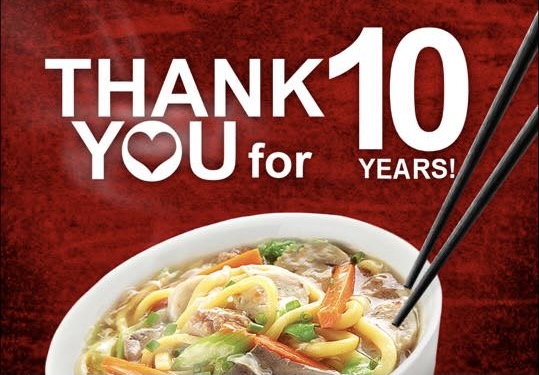
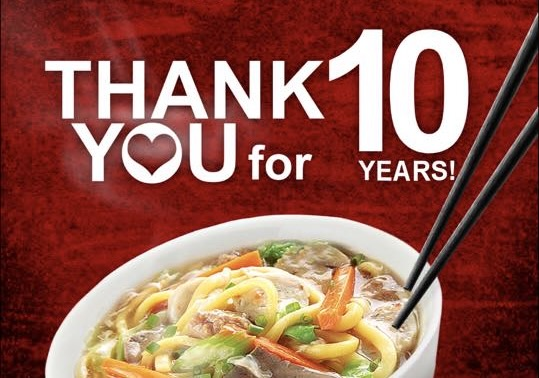
beforeFoodhtml

diff --git a/aboutus.html b/aboutus.html
@@ -69,45 +69,30 @@
                 <!-- <h3>What we stand for</h3> -->
                 <p>Lucky Fortune Panda stands for quality and convenience. Our mission is to cater to the dynamic demands of the new breed of diners who want freshly prepared, fast, and delicious food without having to go all the way to Manila's Chinatown in Binondo.</p>
                 <p>Satisfy your cravings for our bestselling siomai, awarded as the Best Siomai in Binondo as well as our other signature dishes.</p>
-                <p>Our menu offers a wide selection for individuals, families, or large groups, ranging from rice toppings, combo meals, packed lunches, or party packs to answer all the food needs of our valued guests. So, whether it be your daily meals, special celebrations, or parties, let us take care of you.</p>
+                <!-- <p>Our menu offers a wide selection for individuals, families, or large groups, ranging from rice toppings, combo meals, packed lunches, or party packs to answer all the food needs of our valued guests. So, whether it be your daily meals, special celebrations, or parties, let us take care of you.</p> -->
             </div>
             <div class="col-4 col-sm-3 col-md-2 align-self-center offset-2">
                 <img src="img/certifiedpig.jpg" class="img-fluid" />
             </div>
         </div>
 
-        <div class="col-sm-6">
-            <div class="card">
-                <h3 class="card-header bg-primary text-white">Facts At a Glance</h3>
-                <div class="card-body">
-                    <dl class="row">
-                        <dt class="col-6">Founded</dt>
-                        <dd class="col-6">February 3, 2016</dd>
-                        <dt class="col-6">No. of Campsites in 2019</dt>
-                        <dd class="col-6">563</dd>
-                        <dt class="col-6">No. of Reviews in 2019</dt>
-                        <dd class="col-6">4388</dd>
-                        <dt class="col-6">Employees</dt>
-                        <dd class="col-6">42</dd>
-                    </dl>
-                </div>
-            </div>
-        </div>
-
-        <div class="row row-content">
-            <div class="col">
-                <h3>Locations</h3>                
+        <div class="row row-content" id="locations">
+            <div class="col-6">
+                <h3>Locations</h3>
+                <br>                
                 <div id="accordion">
                     <div class="card">
                         <div role="tab" class="card-header">
                             <h4>
                                 <a data-toggle="collapse" data-target="#bootstrap">
-                                    Landmark Alabang <small>Outdoor Gear Specialists</small>
+                                    Landmark Alabang
                                 </a>
                             </h4>
                             <div class="collapse show" id="bootstrap" data-parent="#accordion">
                                 <div class="card-body">
-                                    <p class="d-none d-sm-block">Bootstrap Outfitters supplies you with the gear you need at prices you can't beat.</p>
+                                    <p class="d-none d-sm-block">Alabang, Muntinlupa</p>
+                                    <p class="d-none d-sm-block">Hours 10AM-8:30PM</p>
+                                    <p class="d-none d-sm-block">Phone 123-456-7890</p>
                                 </div>
                             </div>
                         </div>
@@ -116,12 +101,14 @@
                         <div role="tab" class="card-header">
                             <h4>
                                 <a class="collapsed" data-toggle="collapse" data-target="#git">
-                                    Landmark Makati <small>Group Adventure Expeditions</small>
+                                    Landmark Makati
                                 </a>
                             </h4>
                             <div class="collapse" id="git" data-parent="#accordion">
                                 <div class="card-body">
-                                    <p class="d-none d-sm-block">Join Git Out Expeditions to explore new horizons with a group of other adventurers!</p>
+                                    <p class="d-none d-sm-block">6751 Makati Ave, Ayala Center, Makati, Metro Manila</p>
+                                    <p class="d-none d-sm-block">Hours 10AM-8:30PM</p>
+                                    <p class="d-none d-sm-block">Phone 123-456-7890</p>
                                </div>
                             </div>
                         </div>
@@ -130,12 +117,14 @@
                         <div role="tab" class="card-header">
                             <h4>
                                 <a class="collapsed" data-toggle="collapse" data-target="#mongo">
-                                    Landmark Trinoma <small>Your Neighborhood Fly Fishing Shop</small>
+                                    Landmark Trinoma
                                 </a>
                             </h4>
                             <div class="collapse" id="mongo" data-parent="#accordion">
                                 <div class="card-body">
-                                    <p class="d-none d-sm-block">Need a new fishing pole, a tacklebox, or flies of all kinds? Stop by Mongo Fly Shop.</p>
+                                    <p class="d-none d-sm-block">EDSA corner Trinoma Mall, 173 Epifanio de los Santos Ave, Quezon City</p>
+                                    <p class="d-none d-sm-block">Hours 10AM-10PM</p>
+                                    <p class="d-none d-sm-block">Phone 123-456-7890</p>
                                 </div>
                             </div>
                         </div>
@@ -144,17 +133,22 @@
                         <div role="tab" class="card-header">
                             <h4>
                                 <a class="collapsed" data-toggle="collapse" data-target="#node">
-                                    St. Luke’s Global City <small>Outdoor Clothes & Shoes</small>
+                                    St. Luke’s Global City
                                 </a>
                             </h4>
                             <div class="collapse" id="node" data-parent="#accordion">
                                 <div class="card-body">
-                                    <p class="d-none d-sm-block">From polar fleeces to swimsuits, hiking boots to waders, a visit to Node will be sure to get you covered.</p>
+                                    <p class="d-none d-sm-block">Bonifacio Global City, Taguig, Metro Manila</p>
+                                    <p class="d-none d-sm-block">Hours 10AM-10PM</p>
+                                    <p class="d-none d-sm-block">Phone 123-456-7890</p>
                                 </div>
                             </div>
                         </div>
                     </div> 
                 </div>
+            </div>
+            <div class="col-6 col-sm-3 col-md-2 align-self-center mx-auto order-first">
+                <img src="img/siomai.jpg" class="img-fluid" />
             </div>
         </div>
     </div>
@@ -163,13 +157,9 @@
         <div class="container">
             <div class="row">
                 <div class="col-4 col-sm-2 offset-1">
-                    <h5>COMPANY</h5>
-                    <ul class="list-unstyled">
-                        <li><a href="index.html">Home</a></li>
-                        <li><a href="ourfood.html">Our Food</a></li>
-                        <li><a href="#">About Us</a></li>
-                        <li><a href="contactus.html">Contact Us</a></li>
-                    </ul>
+                    <h5>Lucky Fortune Panda</h5>
+                    <a href="#"><img src="img/pandalogo.jpg" class="img-fluid" /></a>
+
                 </div>
                 <div class="col-6 col-sm-5 text-center">
                     <h5>Connect with us</h5>
@@ -179,8 +169,16 @@
                     <a class="btn btn-social-icon btn-google" href="http://youtube.com/"><i class="fa fa-youtube"></i></a>
                 </div>
                 <div class="col-sm-4 text-start">
-                    <a role="button" class="btn btn-link" href="tel:+12065551234"><i class="fa fa-phone"></i> 1-206-555-1234</a><br />
-                    <a role="button" class="btn btn-link" href="mailto:campsites@nucamp.co"><i class="fa fa-envelope-o"></i> campsites@nucamp.co</a>
+                    <ul class="list-unstyled">
+                        <li>COMPANY</li>
+                        <li><a href="index.html">Home</a></li>
+                        <li><a href="ourfood.html">Our Food</a></li>
+                        <li><a href="#">About Us</a></li>
+                        <li><a href="contactus.html">Contact Us</a></li>
+                        <li><a role="button" class="btn btn-link pl-0 py-0" href="tel:+1234567890"><i class="fa fa-phone"></i> 123-456-7890</a><br /></li>
+                        <li><a role="button" class="btn btn-link pl-0 py-0" href="mailto:LFP@somewhere.co"><i class="fa fa-envelope-o"></i> LFP@somewhere.co</a></li>
+    
+                    </ul>
                 </div>
            </div>
         </div>

diff --git a/index.html b/index.html
@@ -24,7 +24,7 @@
             <div class="row">
                 <div class="col-4 col-sm-3 col-md-2 align-self-center">
                     <img src="img/pandalogo.jpg" class="img-fluid" />
-                 </div>
+                <div>
                 <div class="col">
                     <!-- <h1 class="d-none d-sm-block mb-3">Lucky Fortune Panda</h1> -->
                 </div>
@@ -107,7 +107,7 @@
                     </ol>
                     <div class="carousel-inner">
                         <div class="carousel-item active">
-                            <img class="d-block w-100" src="img/noodles 5.jpg" alt="10-year Anniversary" />
+                            <img class="d-block w-100" src="img/anniv.jpg" alt="10-year Anniversary" />
                             <!-- <div class="carousel-caption">
                                 <h3></h3>
                                 <p class="d-none d-sm-block"></p>
@@ -121,7 +121,7 @@
                             </div> -->
                         </div>
                         <div class="carousel-item">
-                            <img class="d-block w-100" src="img/lechon3.jpeg" alt="Taste lechon macau" />
+                            <img class="d-block w-100" src="img/lechon.jpeg" alt="Taste lechon macau" />
                             <!-- <div class="carousel-caption">
                                 <h3></h3>
                                 <p class="d-none d-sm-block"></p>
@@ -142,26 +142,53 @@
                 </div>
             </div>
 
-            <div class="col-sm-4 col-md-3 order-last align-self-center mx-auto">
-                <a href="aboutus.html"><img src="img/certifiedpig.jpg" class="img-fluid" data-toggle="tooltip" data-placement="bottom" title="Click to learn more about us" /></a>
+            <div class="col-6 col-sm-4 col-md-3 order-last align-self-center">
+                <a href="aboutus.html"><img src="img/certifiedpig.jpg" class="img-fluid offset-7 img-thumbnail" data-toggle="tooltip" data-placement="bottom" title="Click to learn more about us" /></a>
             </div>
         </div>
 
         <div class="row row-content">
-            <div class="col">
-                <h2>Food categories</h2>
-                <h3>React Lake Campground</h3>
-                <p>Nestled in the foothills of the Chrome Mountains, this campground on the shores of the pristine React Lake is a favorite for fly fishers.</p>
+            <div class="col">       
+                <nav class="navbar navbar-expand-sm navbar-dark">
+                    
+                        <!-- <button class="navbar-toggler" type="button" data-toggle="collapse" data-target="#pandaNavbar">
+                            <span class="navbar-toggler-icon"></span>
+                        </button> -->
+                        <div class="collapse navbar-collapse" id="pandaNavbar">
+                            <ul class="navbar-nav">
+                                <li class="nav-item"><a class="nav-link" href="ourfood.html"><img src="img/mamimain.jpg" class="img-fluid d-block w-100"></img></a></li>
+                                <li class="nav-item"><a class="nav-link" href="ourfood.html"><img src="img/congeemain.jpg" class="img-fluid d-block w-100"></img></a></li>
+                                <li class="nav-item"><a class="nav-link" href="ourfood.html"><img src="img/dimsummain.jpg" class="img-fluid d-block w-100"></img></a></li>
+                                <li class="nav-item"><a class="nav-link" href="ourfood.html"><img src="img/lechonmain.jpg" class="img-fluid d-block w-100"></img></a></li>
+                            </ul>
+                        </div>          
+                </nav>
             </div>
         </div>
 
         <div class="row row-content">
-            <div class="col-6">
-                <h2>Sign up</h2>
+            <div class="col-1"></div>
+            <div class="card col-3">
+                <h3 class="card-header text-gold text-center">Create an Account</h3>
+                <div class="card-body text-center">
+                    <h4>to receive</h4>
+                    <h4>news</h4>
+                    <h4>and</h4>
+                    <h4>special offers</h4>
+                    <a role="button" href="contactus.html#signup" class= "btn btn-warning">Sign up
+                    </a>   
+                </div>
             </div>
-            <div class="col-6">
-                <h3>Locations</h3>
-                <p>Bootstrap Outfitters supplies you with gear you need at prices you can't beat.</p>
+            <div class="col-2"></div>
+            <div class="card col-3">
+                <h3 class="card-header text-gold text-center">4<br>Locations</h3>
+                <div class="card-body text-center">
+                    <h4>to</h4>  
+                    <h4>serve</h4>
+                    <h4>you</h4>
+                    <br>
+                    <h5 class="text-sm-center">Find one near you <a  href="aboutus.html#locations"><i class="fa fa-external-link"></i></a> </h5>
+                </div>
             </div>
         </div>
     </div>
@@ -183,12 +210,13 @@
                 </div>
                 <div class="col-sm-4 text-start">
                     <ul class="list-unstyled">
-                        <li><a href="index.html">Home</a></li>
+                        <li>COMPANY</li>
+                        <li><a href="#">Home</a></li>
                         <li><a href="ourfood.html">Our Food</a></li>
-                        <li><a href="#">About Us</a></li>
+                        <li><a href="aboutus.html">About Us</a></li>
                         <li><a href="contactus.html">Contact Us</a></li>
-                        <li><a role="button" class="btn btn-link pl-0 py-0" href="tel:+12065551234"><i class="fa fa-phone"></i> 1-206-555-1234</a><br /></li>
-                        <li><a role="button" class="btn btn-link pl-0 py-0" href="mailto:campsites@nucamp.co"><i class="fa fa-envelope-o"></i> campsites@nucamp.co</a></li>
+                        <li><a role="button" class="btn btn-link pl-0 py-0" href="tel:+1234567890"><i class="fa fa-phone"></i> 123-456-7890</a><br /></li>
+                        <li><a role="button" class="btn btn-link pl-0 py-0" href="mailto:LFP@somewhere.co"><i class="fa fa-envelope-o"></i> LFP@somewhere.co</a></li>
     
                     </ul>
                 </div>

diff --git a/contactus.html b/contactus.html
@@ -67,16 +67,15 @@
 
         <div class="row row-content align-items-center">
             <div class="col-sm-4">
-                <h5>Our Address</h5>
+                <h5>Corporate Headquarters</h5>
                 <address>
-                    1 Nucamp Way<br />
-                    Seattle, WA 98001<br />
-                    U.S.A.
+                    Las Pinas<br />
+                    Metro Manila<br />
                 </address>
             </div>
             <div class="col">
-				<a role="button" class="btn btn-link" href="tel:+12065551234"><i class="fa fa-phone"></i> 1-206-555-1234</a><br />
-                <a role="button" class="btn btn-link" href="mailto:campsites@nucamp.co"><i class="fa fa-envelope-o"></i> campsites@nucamp.co</a>
+				<a role="button" class="btn btn-link" href="tel:+1234567890"><i class="fa fa-phone"></i> 123-456-7890</a><br />
+                <a role="button" class="btn btn-link" href="mailto:LFP@somewhere.co"><i class="fa fa-envelope-o"></i> LFP@somewhere.co</a>
             </div>
         </div>
 
@@ -149,13 +148,9 @@
         <div class="container">
             <div class="row">
                 <div class="col-4 col-sm-2 offset-1">
-                    <h5>COMPANY</h5>
-                    <ul class="list-unstyled">
-                        <li><a href="index.html">Home</a></li>
-                        <li><a href="ourfood.html">Our Food</a></li>
-                        <li><a href="aboutus.html">About Us</a></li>
-                        <li><a href="#">Contact Us</a></li>
-                    </ul>
+                    <h5>Lucky Fortune Panda</h5>
+                    <a href="#"><img src="img/pandalogo.jpg" class="img-fluid" /></a>
+
                 </div>
                 <div class="col-6 col-sm-5 text-center">
                     <h5>Connect with us</h5>
@@ -165,8 +160,16 @@
                     <a class="btn btn-social-icon btn-google" href="http://youtube.com/"><i class="fa fa-youtube"></i></a>
                 </div>
                 <div class="col-sm-4 text-start">
-                    <a role="button" class="btn btn-link" href="tel:+12065551234"><i class="fa fa-phone"></i> 1-206-555-1234</a><br />
-                    <a role="button" class="btn btn-link" href="mailto:campsites@nucamp.co"><i class="fa fa-envelope-o"></i> campsites@nucamp.co</a>
+                    <ul class="list-unstyled">
+                        <li>COMPANY</li>
+                        <li><a href="index.html">Home</a></li>
+                        <li><a href="ourfood.html">Our Food</a></li>
+                        <li><a href="aboutus.html">About Us</a></li>
+                        <li><a href="#">Contact Us</a></li>
+                        <li><a role="button" class="btn btn-link pl-0 py-0" href="tel:+1234567890"><i class="fa fa-phone"></i> 123-456-7890</a><br /></li>
+                        <li><a role="button" class="btn btn-link pl-0 py-0" href="mailto:LFP@somewhere.co"><i class="fa fa-envelope-o"></i> LFP@somewhere.co</a></li>
+    
+                    </ul>
                 </div>
            </div>
         </div>

diff --git a/css/styles.css b/css/styles.css
@@ -30,7 +30,6 @@ footer {
 
 .row-content {
     padding: 50px 0;
-    border-bottom: 1px ridge;
     min-height: 200px;
 }
 
